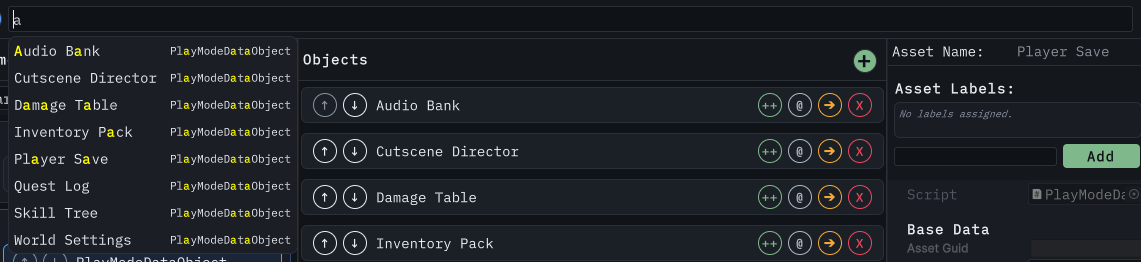
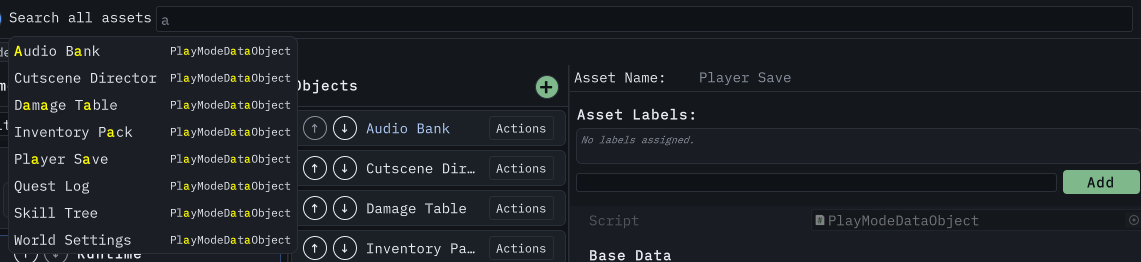
Show current controls in workflow images (#330)
DISCLOSURE: LLM-GENERATED TEXT

**Why:** Published captures show old controls and a cramped inspector.

**What:**

- Refresh six production screenshots and the creation animation.
- Record the source revision, display context, and reviewed dimensions.
- Describe row Actions menus in the guide caption.

![Current pane
layout](https://raw.githubusercontent.com/Ambiguous-Interactive/DxVisualizer/refs/heads/docs/refresh-workflow-captures/docs/images/data-visualizer-layout.png)

Refs #312, #313, #307.

## Type of Change

- [x] Documentation update

## Checklist

- [x] I have updated the documentation accordingly
- [x] My changes do not introduce breaking changes, or breaking changes
are documented

<!-- CURSOR_SUMMARY -->
---

> [!NOTE]
> **Low Risk**
> Documentation and image metadata only; no runtime or API behavior
changes.
> 
> **Overview**
> Refreshes **docs workflow imagery** so screenshots match current
production UI (row **Actions** menus and a less cramped inspector)
instead of outdated controls.
> 
> **`capture-manifest.json`** updates reviewed pixel sizes for
`instance-actions`, `create`, `import`, and `settings` (layout/search
unchanged) and adds a **`provenance`** block—git revision, capture date,
Unity/OS/theme/DPI context, review scope, and when recapture is
required.
> 
> Matching **Unity `.png.meta`** sprite rects are adjusted so imported
dimensions align with the new shots. **`managing-assets.md`** rewrites
[…]

diff --git a/docs/managing-assets.md b/docs/managing-assets.md
@@ -11,8 +11,8 @@ This page covers the operations that change assets on disk, and the processors t
 press Enter or Space to open the menu. Arrow keys choose a command; Escape closes the menu. With the object list focused, **Ctrl/Cmd+D**, **F2**, and **Delete** act on the selected
 asset. On Mac keyboards, the Delete key sends Backspace and also opens confirmation. Delete still asks for confirmation. These shortcuts do not apply inside text fields.
 
-![Clone, rename, move, and delete controls on the object rows](images/data-visualizer-instance-actions.webp) _Per-row asset management controls. Regenerated from the live window by
-the docs capture pipeline._
+![Actions menu buttons beside the object names in the object list](images/data-visualizer-instance-actions.webp) _Open **Actions** on a row for Clone, Rename, Move, or Delete.
+Regenerated from the live window by the docs capture pipeline._
 
 ## Create
 
